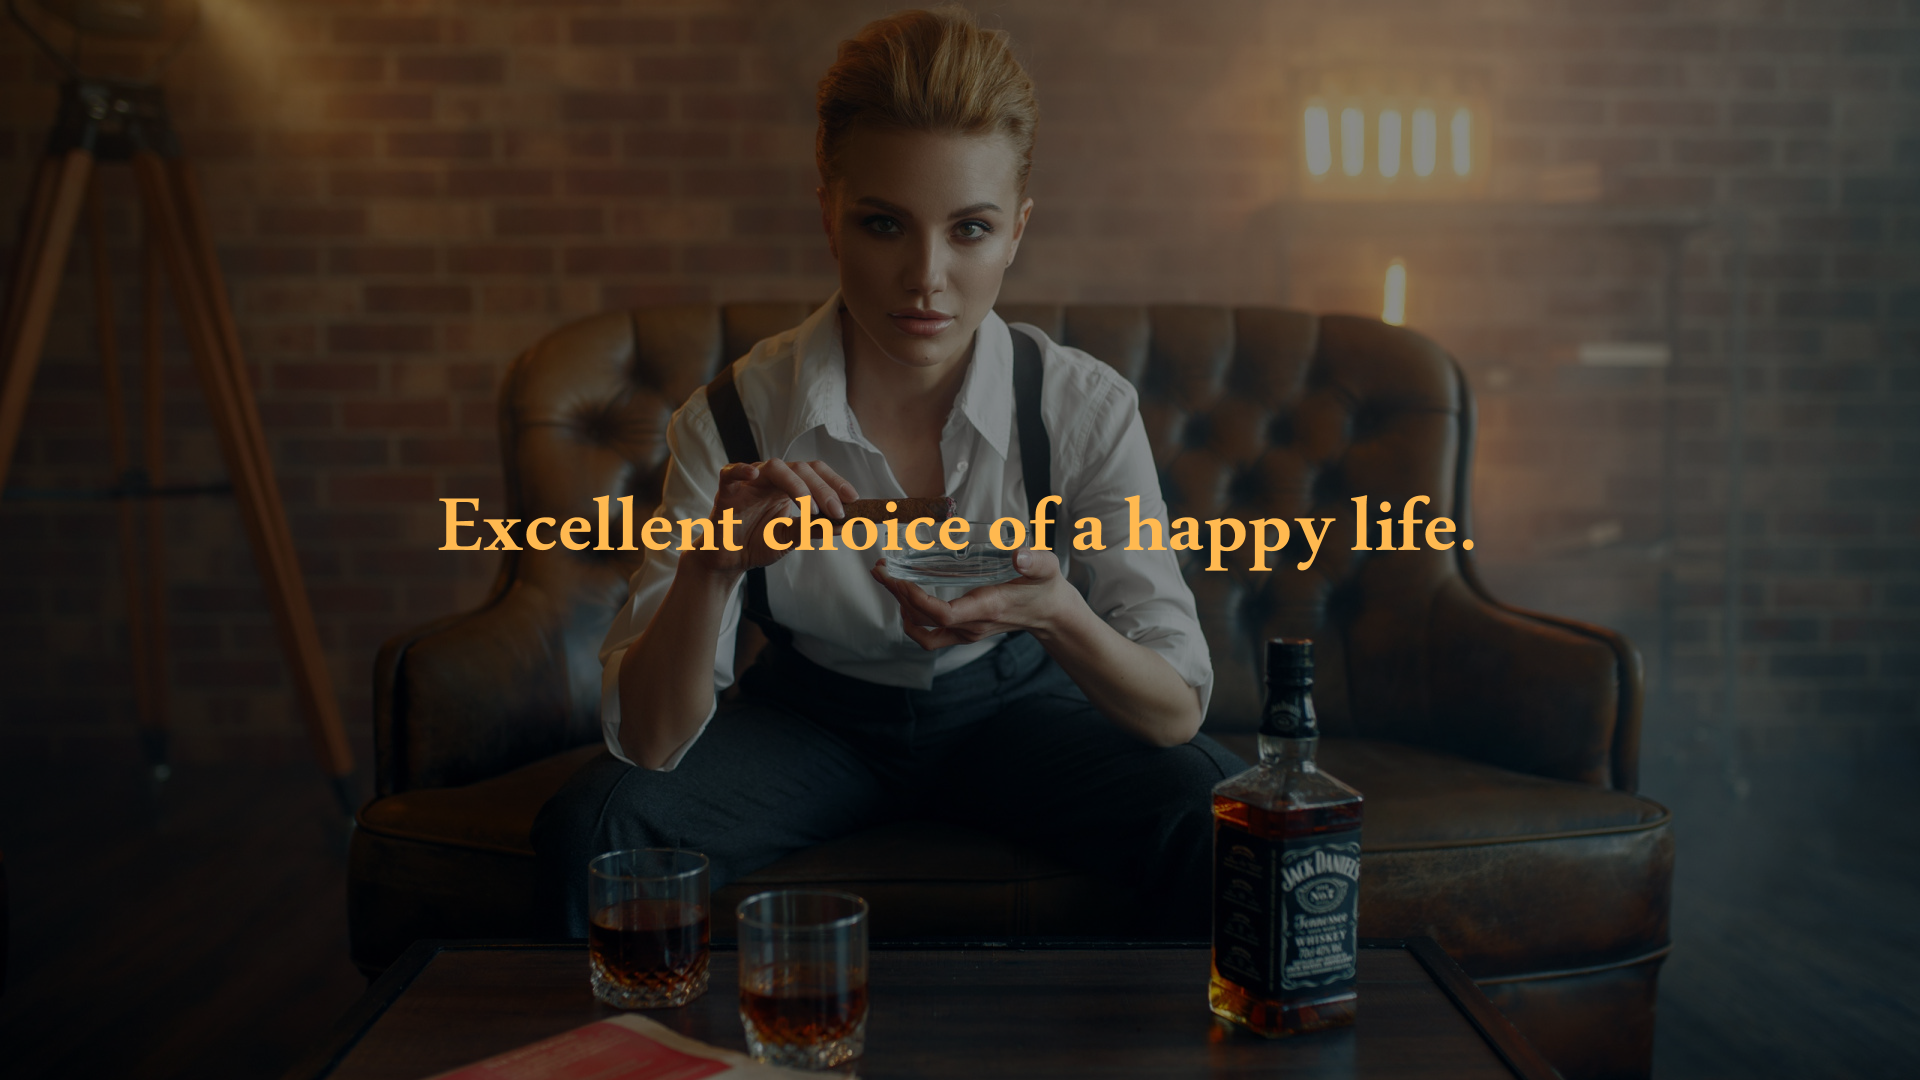
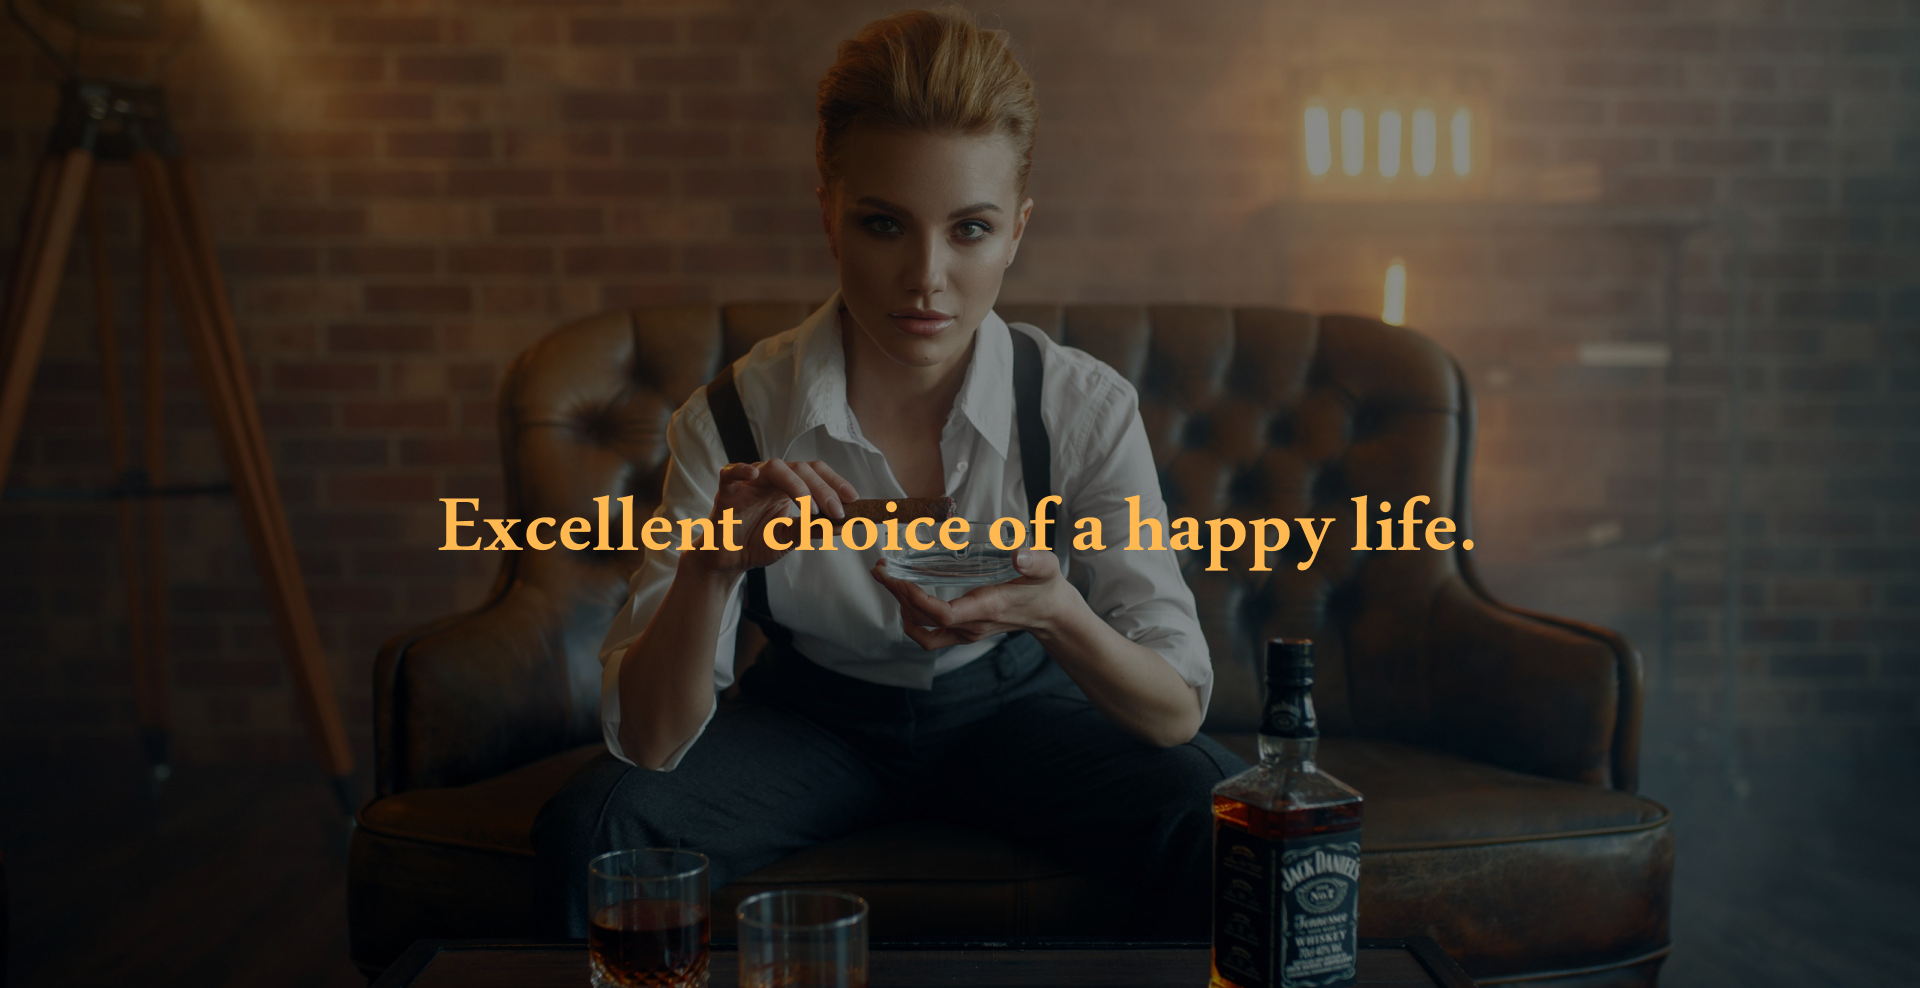
MoreButton 수정

diff --git a/src/pages/mainPage/components/RecommandItemArticle.jsx b/src/pages/mainPage/components/RecommandItemArticle.jsx
@@ -12,19 +12,26 @@ export const RecommandItemArticle = ({ title }) => {
 
   return (
     <Article>
-      <Title>{title}</Title>
-      <ItemListBox>
-        {title === 'Popular Items' && <MoreButton />}
-        <ItemListNav>
-          <FiChevronLeft style={NextButton} />
-          <ItemList>
-            {maxItem.map(({ id, name, price }) => (
-              <ItemBox key={id} name={name} price={price}></ItemBox>
-            ))}
-          </ItemList>
-          <FiChevronRight style={NextButton} />
-        </ItemListNav>
-      </ItemListBox>
+      <TitleWrapper>
+        <Air />
+        <Title>{title}</Title>
+        {title === 'Popular Items' ? (
+          <MoreButtonWrapper>
+            <MoreButton />
+          </MoreButtonWrapper>
+        ) : (
+          <Air />
+        )}
+      </TitleWrapper>
+      <ItemListNav>
+        <FiChevronLeft style={NextButton} />
+        <ItemList>
+          {maxItem.map(({ id, name, price }) => (
+            <ItemBox key={id} name={name} price={price}></ItemBox>
+          ))}
+        </ItemList>
+        <FiChevronRight style={NextButton} />
+      </ItemListNav>
     </Article>
   );
 };
@@ -44,9 +51,23 @@ const Title = styled.p`
   text-align: center;
   line-height: 180%;
 `;
-const ItemListBox = styled.div`
-  position: relative;
+
+const TitleWrapper = styled.div`
+  display: flex;
+  justify-content: space-between;
+  align-items: center;
+  width: 1015px;
 `;
+const Air = styled.div`
+  width: 100px;
+  height: 100px;
+`;
+const MoreButtonWrapper = styled.div`
+  display: flex;
+  align-items: flex-end;
+  height: 120px;
+`;
+
 const ItemListNav = styled.div`
   display: flex;
   margin: 0;

diff --git a/src/pages/mainPage/MainPage.jsx b/src/pages/mainPage/MainPage.jsx
@@ -7,7 +7,7 @@ import { RecommandItemArticle } from './components/index';
 export const MainPage = () => {
   return (
     <Section>
-      <MainPageCover src={cover}></MainPageCover>
+      <MainPageCover src={cover} />
       <RecommandItemArticle title={"Today's Items"}></RecommandItemArticle>
       <RecommandItemArticle title={'Popular Items'}></RecommandItemArticle>
     </Section>
@@ -20,4 +20,5 @@ const Section = styled.div`
 `;
 const MainPageCover = styled.img`
   width: 100%;
+  height: 92vh;
 `;

diff --git a/src/pages/product/list/ProductListPage.jsx b/src/pages/product/list/ProductListPage.jsx
@@ -37,7 +37,7 @@ export const ProductListPage = () => {
         <Article>
           {typeData.map(({ id, name, price }) => (
             <ItemList key={id}>
-              <ItemBox name={name} price={price}></ItemBox>
+              <ItemBox name={name} price={price} />
             </ItemList>
           ))}
         </Article>

diff --git a/src/pages/mainPage/components/MoreButton.jsx b/src/pages/mainPage/components/MoreButton.jsx
@@ -13,9 +13,8 @@ export const MoreButton = () => {
 };
 
 const MoreWrapper = styled.button`
-  position: absolute;
-  top: -13%;
-  right: 4.4%;
+  position: relative;
+
   width: 100px;
   height: 35px;
   border: 0;
